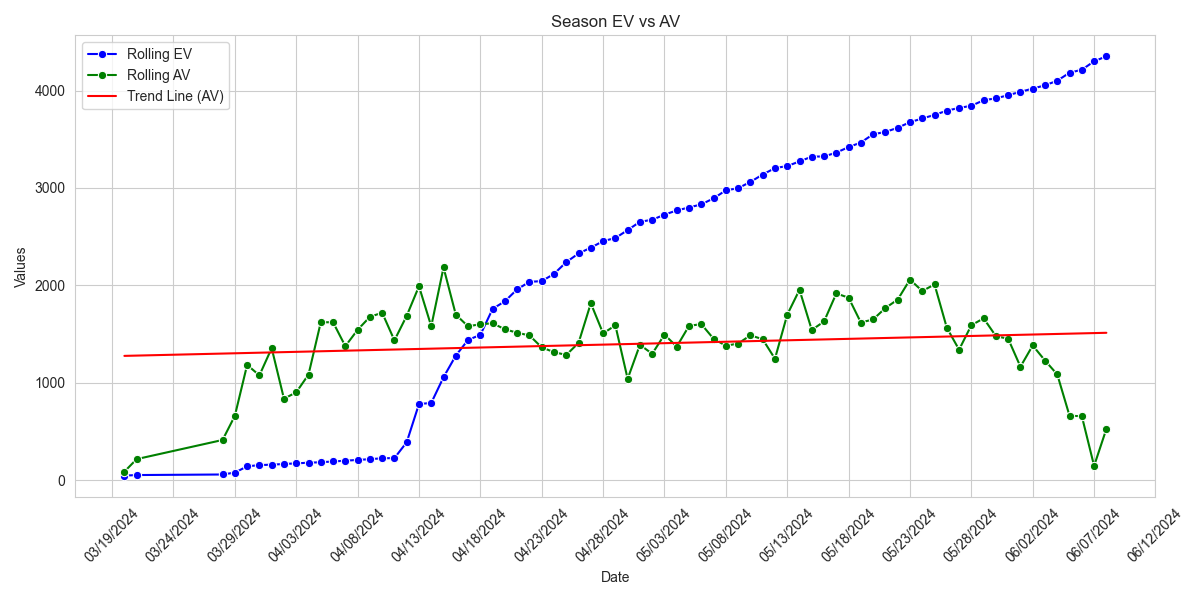
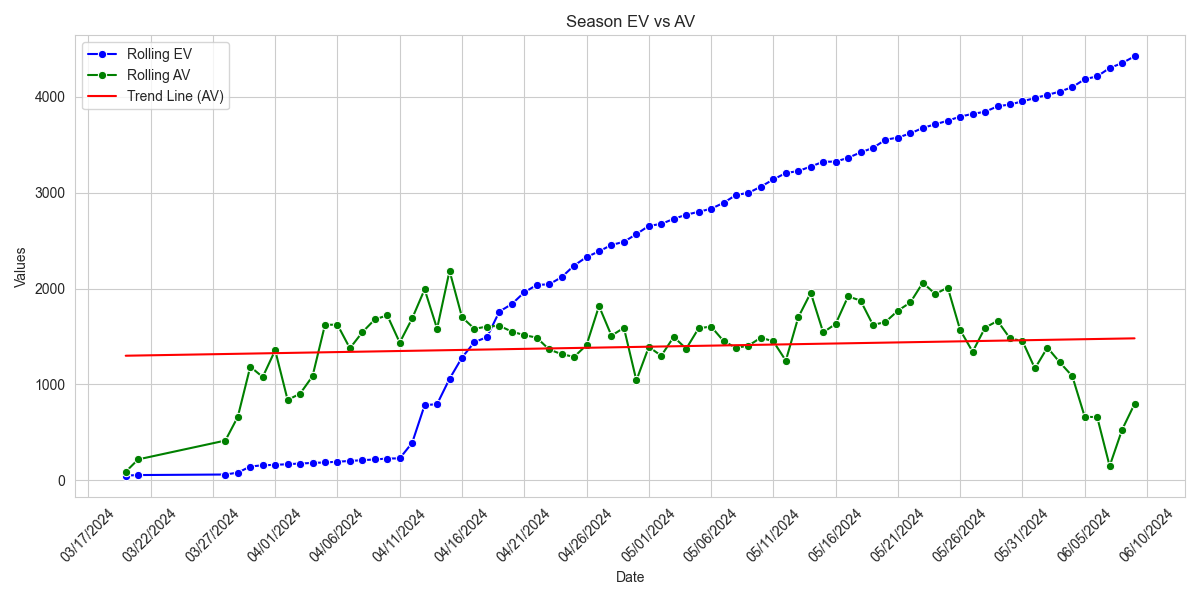
web

diff --git a/index.html b/index.html
@@ -1,1 +1,1 @@
-<html><head><meta name="viewport" content="width=device-width, initial-scale=1"><meta http-equiv="Cache-Control" content="no-cache, no-store, must-revalidate"><meta http-equiv="Pragma" content="no-cache"><meta http-equiv="Expires" content="0"><title>MLB Shit</title><link rel="stylesheet" type="text/css" href="styles.css"></head><body><p><b>Daily Picks</b></p><table><tr><th>Date</th><th>Team</th><th>Price</th><th>Bet</th><th>Win</th><th>WP</th><th>EV</th><th>Type</th><th>Result</th></tr><tr><td>06/09/2024</td><td><img src='https://www.mlbstatic.com/team-logos/137.svg' height=30 width=30></td><td>+136</td><td>$73.25</td><td>$99.62</td><td>47.2%</td><td>8.3%</td><td>Dog</td><td></td></td><tr><td>06/09/2024</td><td><img src='https://www.mlbstatic.com/team-logos/144.svg' height=30 width=30></td><td>-166</td><td>$97.25</td><td>$58.58</td><td>63.2%</td><td>1.2%</td><td>Fav</td><td></td></td><tr><td>06/09/2024</td><td><img src='https://www.mlbstatic.com/team-logos/142.svg' height=30 width=30></td><td>-108</td><td>$81.75</td><td>$75.69</td><td>53.7%</td><td>2.8%</td><td>Dog</td><td></td></td><tr><td>06/09/2024</td><td><img src='https://www.mlbstatic.com/team-logos/110.svg' height=30 width=30></td><td>-135</td><td>$95.25</td><td>$70.56</td><td>61.3%</td><td>6.4%</td><td>Fav</td><td></td></td><tr><td>06/09/2024</td><td><img src='https://www.mlbstatic.com/team-logos/114.svg' height=30 width=30></td><td>-112</td><td>$79.50</td><td>$70.98</td><td>52.9%</td><td>0.1%</td><td>Fav</td><td></td></td><tr><td>06/09/2024</td><td><img src='https://www.mlbstatic.com/team-logos/158.svg' height=30 width=30></td><td>+145</td><td>$67.25</td><td>$97.51</td><td>43.7%</td><td>4.8%</td><td>Dog</td><td></td></td><tr><td>06/09/2024</td><td><img src='https://www.mlbstatic.com/team-logos/111.svg' height=30 width=30></td><td>-166</td><td>$100.75</td><td>$60.69</td><td>64.6%</td><td>3.5%</td><td>Fav</td><td></td></td><tr><td>06/09/2024</td><td><img src='https://www.mlbstatic.com/team-logos/136.svg' height=30 width=30></td><td>+102</td><td>$79.00</td><td>$80.58</td><td>51.9%</td><td>3.8%</td><td>Dog</td><td></td></td><tr><td>06/09/2024</td><td><img src='https://www.mlbstatic.com/team-logos/138.svg' height=30 width=30></td><td>-185</td><td>$103.00</td><td>$55.68</td><td>66.1%</td><td>1.9%</td><td>Fav</td><td></td></td><tr><td>06/09/2024</td><td><img src='https://www.mlbstatic.com/team-logos/141.svg' height=30 width=30></td><td>-125</td><td>$119.50</td><td>$95.60</td><td>71.1%</td><td>33.4%</td><td>Fav</td><td></td></td><tr><td>06/09/2024</td><td><img src='https://www.mlbstatic.com/team-logos/109.svg' height=30 width=30></td><td>+114</td><td>$72.25</td><td>$82.37</td><td>47.7%</td><td>1.5%</td><td>Dog</td><td></td></td><tr><td>06/09/2024</td><td><img src='https://www.mlbstatic.com/team-logos/119.svg' height=30 width=30></td><td>-120</td><td>$86.00</td><td>$71.67</td><td>56.4%</td><td>2.9%</td><td>Fav</td><td></td></td><tr><th colspan=9><B>SUMMARY: $1,054.75 in play to win $919.53</B></th></tr><tr><th colspan=9><B>LAST UPDATED: 06/09/2024 08:50 AM</B></th></tr></table><p><b>Monthly Totals</b></p><table><tr><th>Date</th><th>Profit</th><th>W/L</th><th>Favs</th><th>Dogs</th><th>Fav $</th><th>Dog $</th></tr><tr><td>06/01/2024</td><td>$-286.17</td><td>3-7</td><td>2-1</td><td>1-6</td><td>$58.47</td><td>$-344.64</td></td><tr><td>06/02/2024</td><td>$218.12</td><td>5-3</td><td>1-0</td><td>4-3</td><td>$70.58</td><td>$147.54</td></td><tr><td>06/03/2024</td><td>$-154.86</td><td>2-4</td><td>2-2</td><td>0-2</td><td>$-22.36</td><td>$-132.50</td></td><tr><td>06/04/2024</td><td>$-142.84</td><td>6-7</td><td>6-2</td><td>0-5</td><td>$213.41</td><td>$-356.25</td></td><tr><td>06/05/2024</td><td>$-424.33</td><td>3-8</td><td>2-2</td><td>1-6</td><td>$-64.46</td><td>$-359.87</td></td><tr><td>06/06/2024</td><td>$-3.16</td><td>3-3</td><td>2-0</td><td>1-3</td><td>$125.44</td><td>$-128.60</td></td><tr><td>06/07/2024</td><td>$-510.60</td><td>2-7</td><td>2-5</td><td>0-2</td><td>$-348.35</td><td>$-162.25</td></td><tr><td>06/08/2024</td><td>$379.44</td><td>10-3</td><td>8-3</td><td>2-0</td><td>$212.30</td><td>$167.14</td></td><tr><th colspan=7>TOTALS</th></tr><tr><th colspan=2>Monthly Profit</th><th colspan=2>W%</th><th>Fav W%</th><th>Dog W%</th><th>Predicted Upset W%</th></tr><tr><td colspan=2>$-924.40</td><td colspan=2>44.7%</td><td>62.5%</td><td>25.0%</td><td>18.2%</td></tr></table><p><b>Season Totals</b></p><table width="30%"><tr><th width="25%">Month</th><th width="25%">Profit</th><th width="25%" colspan=2>Bankroll Growth</th></tr><tr><td>March</td><td>$1,077.72</td><td colspan=2>13.4715%</td></td><tr><td>April</td><td>$-35.26</td><td colspan=2>-0.44075%</td></td><tr><td>May</td><td>$410.27</td><td colspan=2>5.128375%</td></td><tr><td>June</td><td>$-924.40</td><td colspan=2>-11.555%</td></td><tr><td><b><i>TOTAL</i></b></td><td><b><i>$528.33</i></b></td><td colspan=2><b><i>6.604125%</i></b></td></td><tr><th colspan=4>Performance</th></tr><tr><th>Season W%</th><th>Fav W%</th><th>Dog W%</th><th>Predicted Upset W%</th></tr><tr><td>51.9%</td><td>58.2%</td><td>46.6%</td><td>49.0%</td></tr></table><p><table><tr><td><img class="chart" src="images/ev_graph.png"></td></tr></table></p></body></html>
+<html><head><meta name="viewport" content="width=device-width, initial-scale=1"><meta http-equiv="Cache-Control" content="no-cache, no-store, must-revalidate"><meta http-equiv="Pragma" content="no-cache"><meta http-equiv="Expires" content="0"><title>MLB Shit</title><link rel="stylesheet" type="text/css" href="styles.css"></head><body><p><b>Daily Picks</b></p><table><tr><th>Date</th><th>Team</th><th>Price</th><th>Bet</th><th>Win</th><th>WP</th><th>EV</th><th>Type</th><th>Result</th></tr><tr><td>06/10/2024</td><td><img src='https://www.mlbstatic.com/team-logos/139.svg' height=30 width=30></td><td>+120</td><td>$68.50</td><td>$82.20</td><td>45.5%</td><td>0.1%</td><td>Dog</td><td></td></td><tr><td>06/10/2024</td><td><img src='https://www.mlbstatic.com/team-logos/147.svg' height=30 width=30></td><td>-130</td><td>$87.25</td><td>$67.12</td><td>57.4%</td><td>1.4%</td><td>Fav</td><td></td></td><tr><td>06/10/2024</td><td><img src='https://www.mlbstatic.com/team-logos/141.svg' height=30 width=30></td><td>-105</td><td>$78.25</td><td>$74.52</td><td>51.9%</td><td>1.0%</td><td>Dog</td><td></td></td><tr><th colspan=9><B>SUMMARY: $234.00 in play to win $223.84</B></th></tr><tr><th colspan=9><B>LAST UPDATED: 06/10/2024 12:57 PM</B></th></tr></table><p><b>Monthly Totals</b></p><table><tr><th>Date</th><th>Profit</th><th>W/L</th><th>Favs</th><th>Dogs</th><th>Fav $</th><th>Dog $</th></tr><tr><td>06/01/2024</td><td>$-286.17</td><td>3-7</td><td>2-1</td><td>1-6</td><td>$58.47</td><td>$-344.64</td></td><tr><td>06/02/2024</td><td>$218.12</td><td>5-3</td><td>1-0</td><td>4-3</td><td>$70.58</td><td>$147.54</td></td><tr><td>06/03/2024</td><td>$-154.86</td><td>2-4</td><td>2-2</td><td>0-2</td><td>$-22.36</td><td>$-132.50</td></td><tr><td>06/04/2024</td><td>$-142.84</td><td>6-7</td><td>6-2</td><td>0-5</td><td>$213.41</td><td>$-356.25</td></td><tr><td>06/05/2024</td><td>$-424.33</td><td>3-8</td><td>2-2</td><td>1-6</td><td>$-64.46</td><td>$-359.87</td></td><tr><td>06/06/2024</td><td>$-3.16</td><td>3-3</td><td>2-0</td><td>1-3</td><td>$125.44</td><td>$-128.60</td></td><tr><td>06/07/2024</td><td>$-510.60</td><td>2-7</td><td>2-5</td><td>0-2</td><td>$-348.35</td><td>$-162.25</td></td><tr><td>06/08/2024</td><td>$379.44</td><td>10-3</td><td>8-3</td><td>2-0</td><td>$212.30</td><td>$167.14</td></td><tr><td>06/09/2024</td><td>$268.40</td><td>8-4</td><td>5-2</td><td>3-2</td><td>$170.26</td><td>$98.14</td></td><tr><th colspan=7>TOTALS</th></tr><tr><th colspan=2>Monthly Profit</th><th colspan=2>W%</th><th>Fav W%</th><th>Dog W%</th><th>Predicted Upset W%</th></tr><tr><td colspan=2>$-656.00</td><td colspan=2>47.7%</td><td>63.8%</td><td>29.3%</td><td>30.8%</td></tr></table><p><b>Season Totals</b></p><table width="30%"><tr><th width="25%">Month</th><th width="25%">Profit</th><th width="25%" colspan=2>Bankroll Growth</th></tr><tr><td>March</td><td>$1,077.72</td><td colspan=2>13.4715%</td></td><tr><td>April</td><td>$-35.26</td><td colspan=2>-0.44075%</td></td><tr><td>May</td><td>$410.27</td><td colspan=2>5.128375%</td></td><tr><td>June</td><td>$-656.00</td><td colspan=2>-8.2%</td></td><tr><td><b><i>TOTAL</i></b></td><td><b><i>$796.73</i></b></td><td colspan=2><b><i>9.959125%</i></b></td></td><tr><th colspan=4>Performance</th></tr><tr><th>Season W%</th><th>Fav W%</th><th>Dog W%</th><th>Predicted Upset W%</th></tr><tr><td>52.1%</td><td>58.5%</td><td>46.8%</td><td>49.7%</td></tr></table><p><table><tr><td><img class="chart" src="images/ev_graph.png"></td></tr></table></p></body></html>
